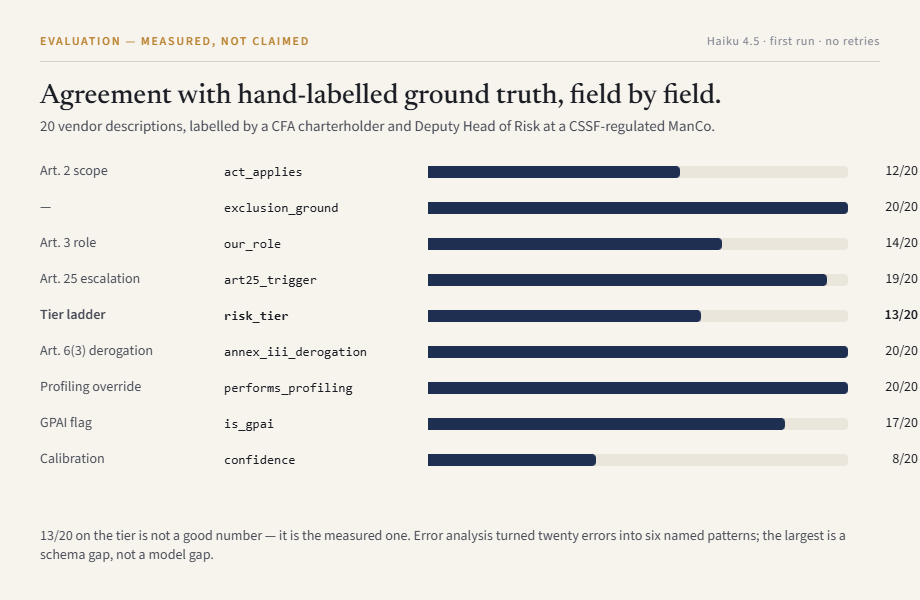
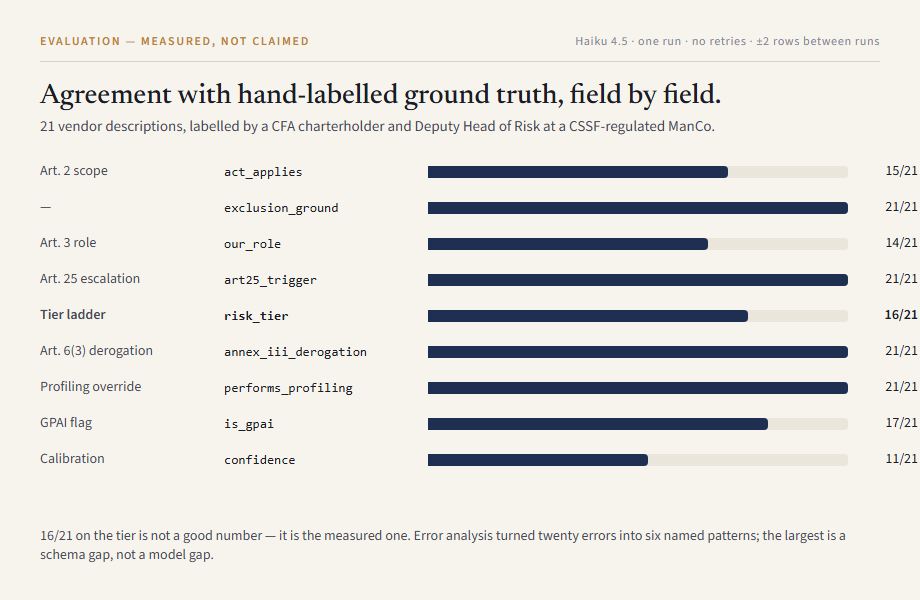
day5: public accuracy figure reads 16/21 on 21 rows
README: 13/20 -> 16/21, one tier in three -> one in four, confidence 8/20 ->
11/21, 20 -> 21 vendor descriptions, and a paragraph bringing the evaluation
section current: one prompt rule (Article 3(1) first) took the tier 14 -> 16
across two runs; three people-scoring rows still need a schema field.

docs/figures/08-accuracy.png regenerated from data/labels.jsonl and the
21-row data/predictions.jsonl, scored the way compare.py scores; rendered
with the Day 4 showcase layout, headless Edge (Chrome gives the same bytes).

notes/day3.md: the Day 3 table stays as measured, with a superseded-on-Day-5
pointer. notes/day4-code-review-brief.md: known-issues row updated.
src/aiact/compare.py: docstring no longer says 20 calls.
.dockerignore: exclude "Claude outputs/".

diff --git a/src/aiact/compare.py b/src/aiact/compare.py
@@ -11,7 +11,7 @@ WHY IT EXISTS
     printed here are Day 3's edge cases and the Week 3 error-analysis seed.
 
 HOW TO USE IT
-    python -m src.aiact.compare            # 20 API calls; writes predictions
+    python -m src.aiact.compare            # one API call per row; writes predictions
     python -m src.aiact.compare --cached   # re-diff the last run, no calls
 
 SCORING RULES

diff --git a/README.md b/README.md
@@ -114,11 +114,11 @@ turns whoever operates it into a GDPR controller for whatever strangers
 paste. Neither buys anything a figure cannot show. The Dockerfile and deploy
 commands are below for a private demo; the public face is this page.
 
-**What happens when it is wrong?** It is wrong about one tier in three on
+**What happens when it is wrong?** It is wrong about one tier in four on
 the labelled set (next section), in patterns that are named: it under-uses
 `insufficient_information`, and it drifts toward `high_risk` around
 financial-services language. Its own confidence field is poorly calibrated
-(8/20). Every row is a first draft for a human reviewer; read the rationale
+(11/21). Every row is a first draft for a human reviewer; read the rationale
 before accepting the tier.
 
 **Who is the provider of this tool?** I am. *Putting into service* is the
@@ -142,19 +142,26 @@ names rather than adjectives.
 
 ![Agreement with hand-labelled ground truth](docs/figures/08-accuracy.png)
 
-Ground truth is a hand-labelled set of 20 vendor descriptions
+Ground truth is a hand-labelled set of 21 vendor descriptions
 (`data/labels.jsonl`), reviewed against the consolidated Act and the
 Commission's own FAQ, with 86 per-cell review comments recorded. **I am the
 labeller** — a CFA charterholder and Deputy Head of Risk at a CSSF-regulated
 ManCo. Nothing else was going to measure correctness on this.
 
-**13/20 on the tier is not a good number, and it is the honest one.** The
+**16/21 on the tier is not a good number, and it is the honest one.** The
 useful part is that error analysis turned twenty errors into six named
 patterns, one of which accounts for six of them: the schema has no field for
 Article 3(1), so when the real question is *"is this an AI system at all?"* the
 model has nowhere to put that doubt and assesses the risk of a
 threshold-matching reconciliation engine instead — confidently. Full analysis
 in `notes/day3.md`.
+
+On Day 5 one prompt rule — check Article 3(1) before anything else — took
+the tier from 14/21 to 16/21, stable across two runs. It fixed the
+feature-list texts. The three rows it did not fix describe decisions about
+people without saying whether any AI is involved; those need a schema field,
+not a better prompt. The run and its noise band are in
+`notes/day5-article-3-1-gate.md`.
 
 That is what a portfolio project should show: a measured number, a diagnosis,
 and a fix with a cost attached — not a demo that works on the five inputs it
@@ -324,7 +331,7 @@ terms. Two consequences that are handled rather than hoped away:
 ## AI literacy (Article 4)
 
 This tool uses a large language model to read the description. It is wrong
-about 1 tier in 3 on the current test set, and it is wrong in patterns worth
+about 1 tier in 4 on the current test set, and it is wrong in patterns worth
 knowing: it under-uses `insufficient_information`, and it drifts toward
 `high_risk` around financial-services language, because that language is full
 of risk, regulation and client money while Annex III is a specific list of uses

diff --git a/notes/day4-code-review-brief.md b/notes/day4-code-review-brief.md
@@ -137,7 +137,7 @@ nothing imports.
 
 | Issue | Status |
 |---|---|
-| Tier accuracy is 13/20 on the labelled set; six named error patterns; the largest is a missing schema field for Art. 3(1) "is this an AI system at all" | Known, documented in README and `notes/day3.md`; fix scheduled |
+| Tier accuracy was 13/20 on the 20-row set, 16/21 after the Day 5 prompt rule on 21 rows; six named error patterns; the largest is a missing schema field for Art. 3(1) "is this an AI system at all", which three rows still need | Known, documented in README, `notes/day3.md` and `notes/day5-article-3-1-gate.md`; schema field scheduled |
 | Model invents a "materially affects" qualifier when ruling out Art. 50(1) (still reaches the right tier via 50(2)) | Found 2026-09-15; likely leakage from the InterviewScribe few-shot; not yet fixed |
 | Latency 6–10 s per call at ~7.2k input tokens | Measured, not yet investigated |
 | Spend cap is per process/instance | Known; deploy will use `--max-instances` |

diff --git a/notes/day3.md b/notes/day3.md
@@ -35,6 +35,10 @@ measurement of correctness.
 | confidence | 8/20 |
 | legal_basis | 5/10 scored |
 
+> Superseded on Day 5: 16/21 on the tier and 15/21 on act_applies after the
+> Article 3(1) prompt rule, on 21 rows. The table above is the Day 3 record and
+> stays as measured. See `day5-article-3-1-gate.md`.
+
 145,260 input / 9,395 output tokens, 200 s. **$0.19** at the Day 1 prices
 ($1 / $5 per MTok). ~7.2k input per call of which the description is ~300:
 **94% of input is the fixed system prompt and examples** — that is the prompt
